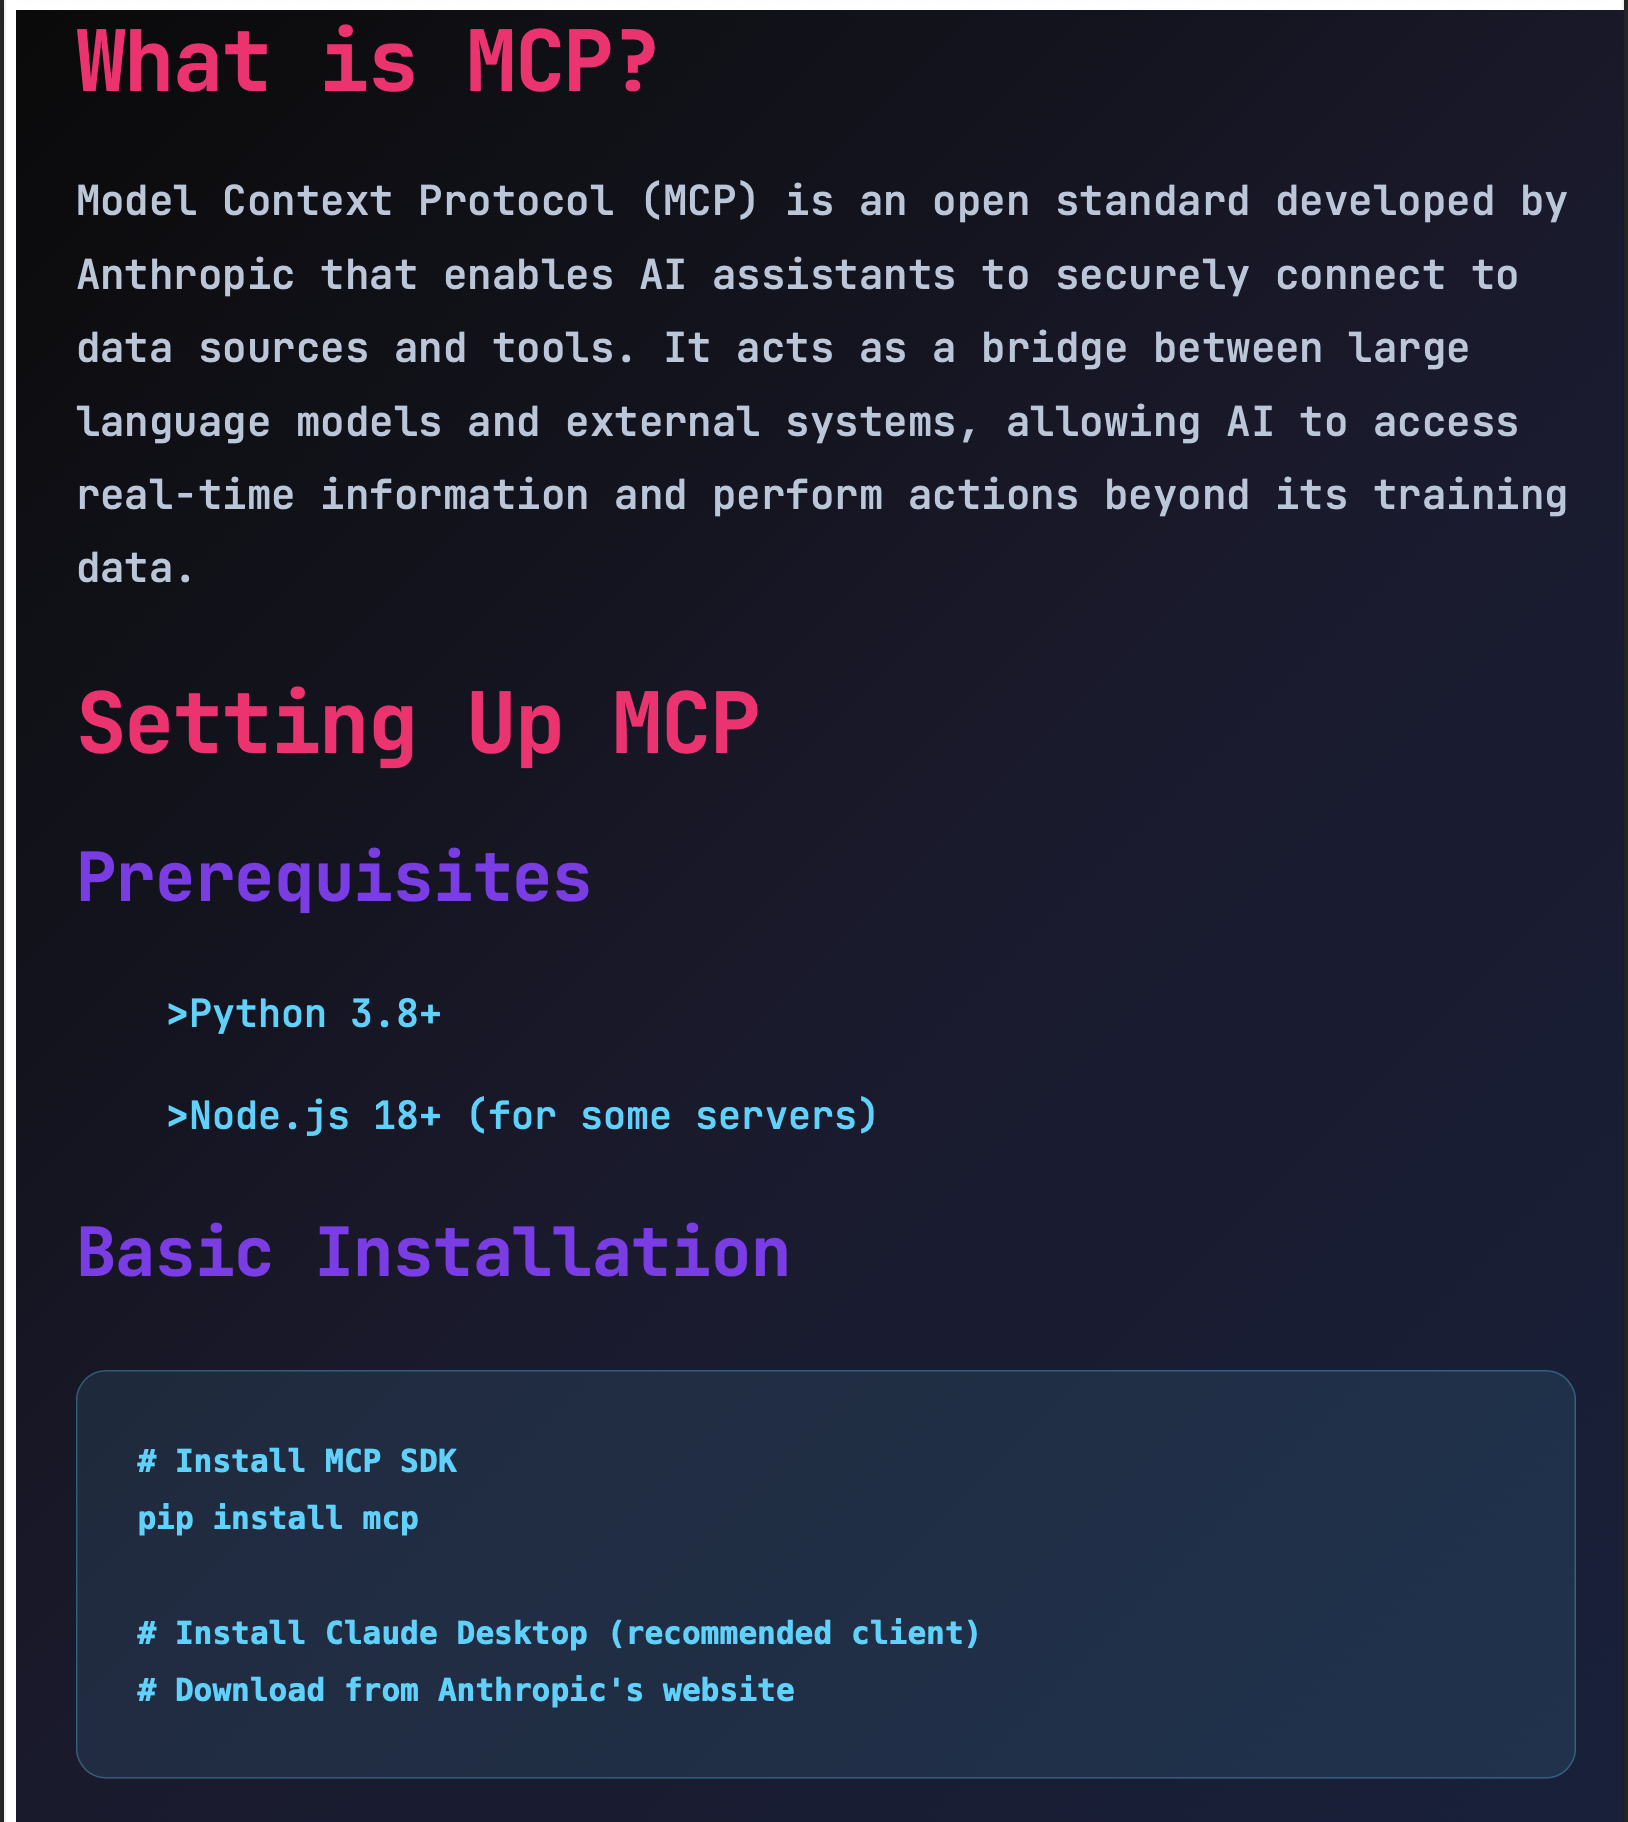
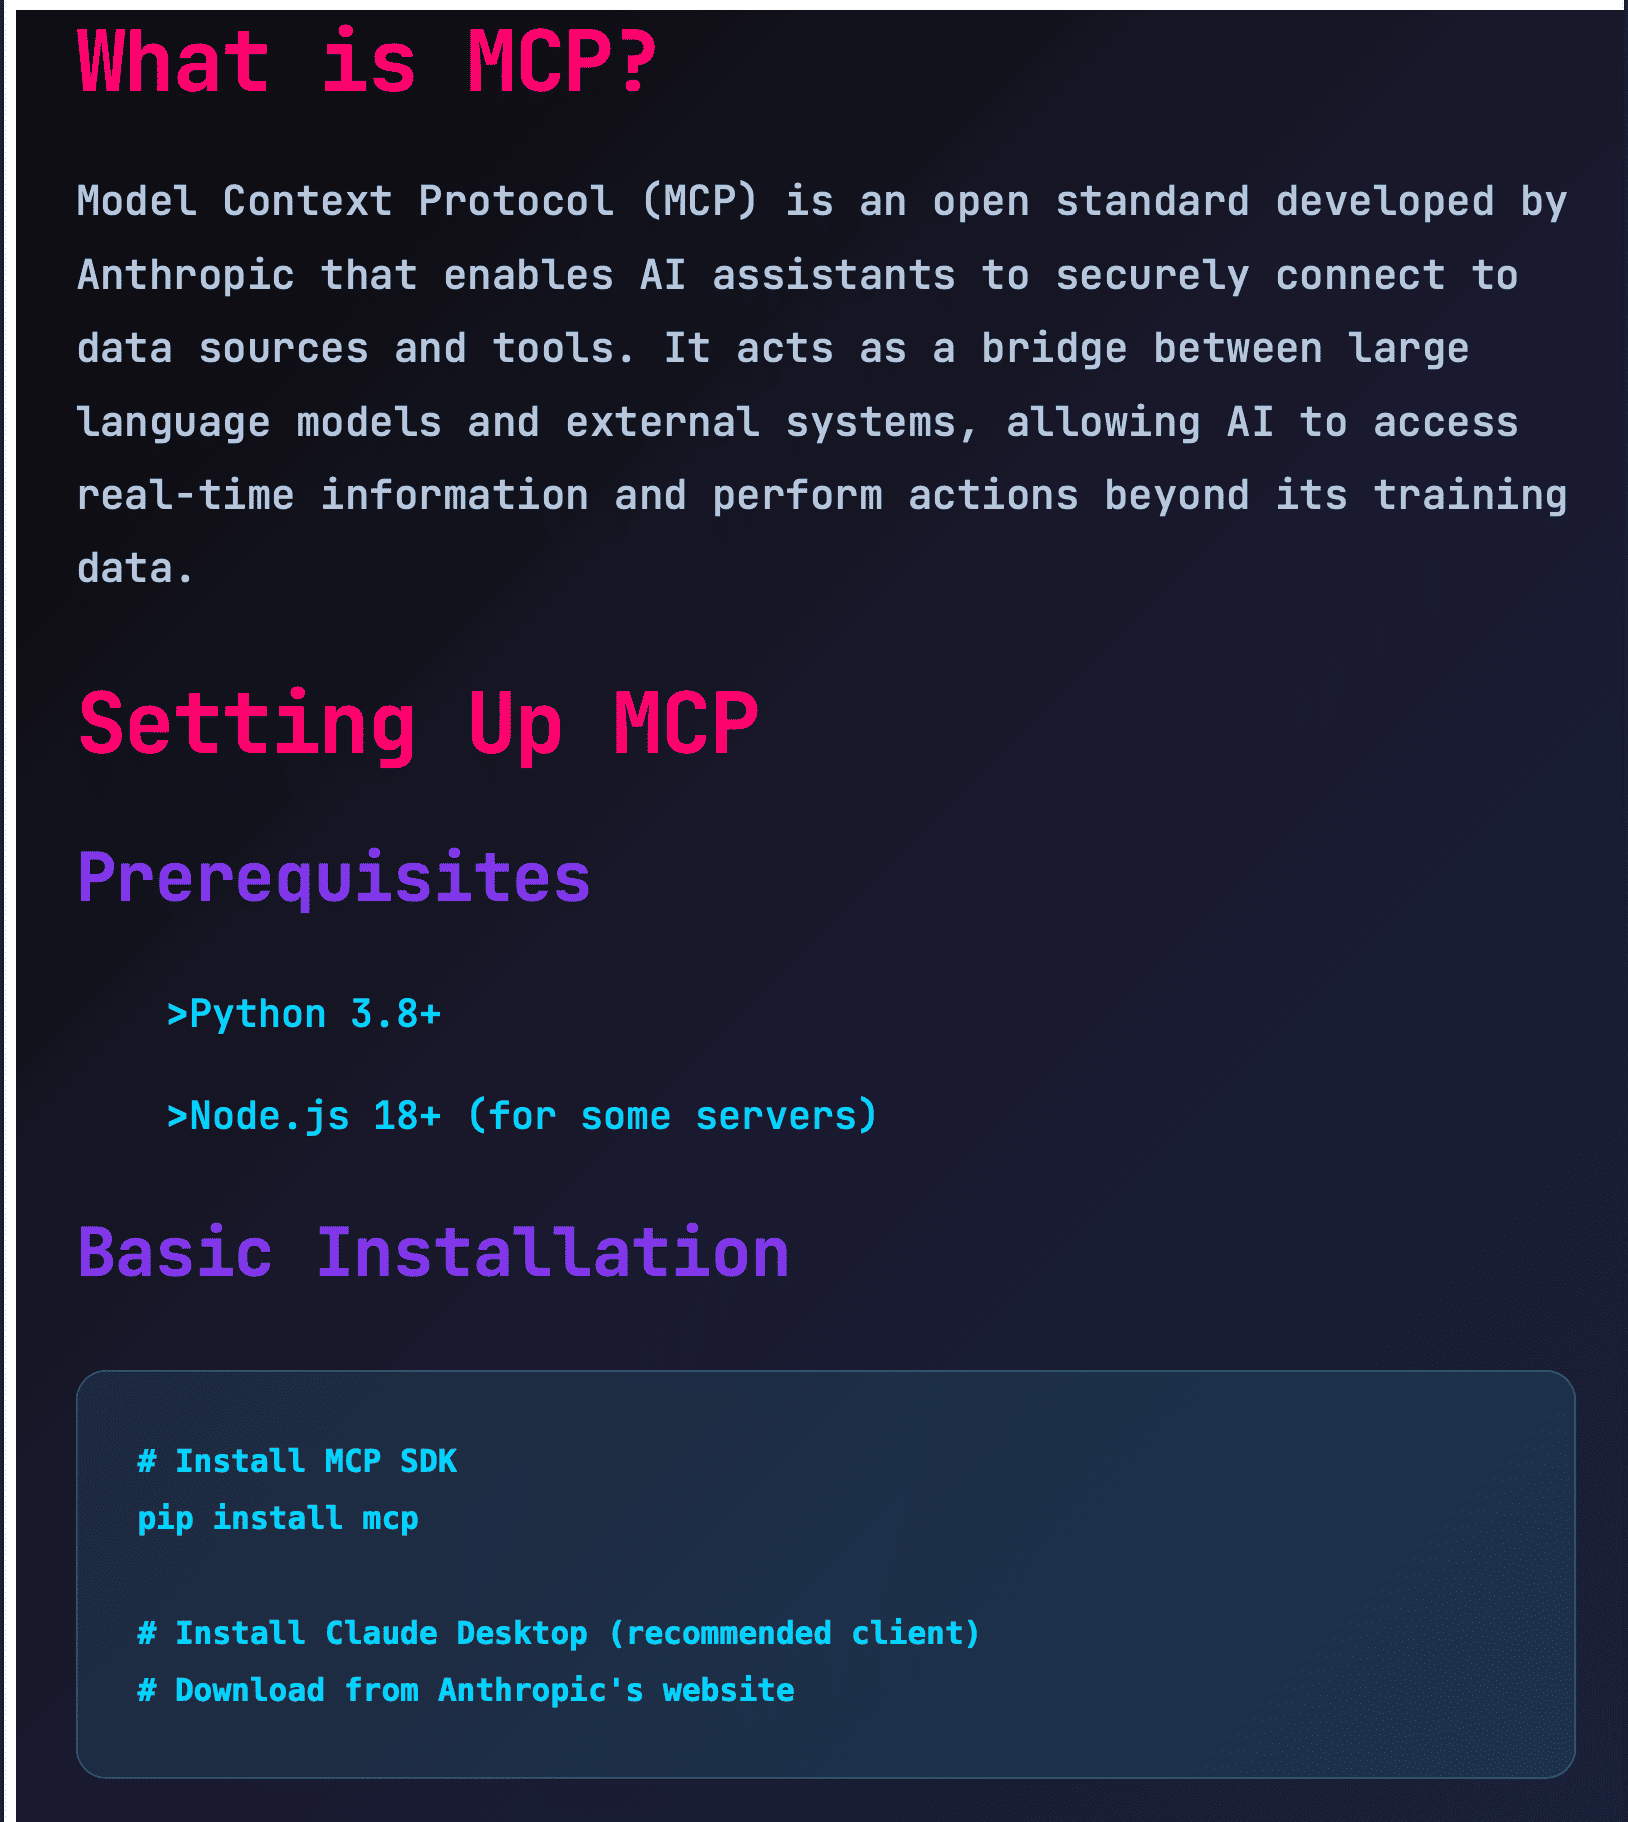
reduced image size; added lazy loading; removed animated bg for app;

diff --git a/templates/geniuspost_homepage.html b/templates/geniuspost_homepage.html
@@ -806,16 +806,16 @@
                         </ul>
                     </div>
                     <div class="showcase-visual">
-                        <img src="{{ url_for('static', filename='images/carousel_template2.png') }}" alt="Carousel Example" style="width: 50%; height: auto; border-radius: 15px;">
-                        <img src="{{ url_for('static', filename='images/carousel_template1.png') }}" alt="Carousel Example" style="width: 50%; height: auto; border-radius: 15px;">
+                        <img src="{{ url_for('static', filename='images/carousel_template2.png') }}" alt="Carousel Example" loading="lazy" style="width: 50%; height: auto; border-radius: 15px;">
+                        <img src="{{ url_for('static', filename='images/carousel_template1.png') }}" alt="Carousel Example" loading="lazy" style="width: 50%; height: auto; border-radius: 15px;">
                     </div>
                 </div>
 
                 <!-- Infographic Showcase -->
                 <div class="showcase-grid" style="margin-top: 80px;">
                     <div class="showcase-visual">
-                        <img src="{{ url_for('static', filename='images/carousel_template5.png') }}" alt="Carousel Example" style="width: 50%; height: 50%; border-radius: 15px;">
-                        <img src="{{ url_for('static', filename='images/carousel_template4.png') }}" alt="Carousel Example" style="width: 50%; height: 60%; border-radius: 15px;">
+                        <img src="{{ url_for('static', filename='images/carousel_template5.png') }}" alt="Carousel Example" loading="lazy" style="width: 50%; height: 50%; border-radius: 15px;">
+                        <img src="{{ url_for('static', filename='images/carousel_template4.png') }}" alt="Carousel Example" loading="lazy" style="width: 50%; height: 60%; border-radius: 15px;">
                     </div>
                     <div class="showcase-content">
                         <h3>Stunning Infographics</h3>
@@ -842,8 +842,8 @@
                     </div>
                     <div class="showcase-visual">
                         <div style="display: grid; grid-template-columns: repeat(2, 1fr); gap: 15px; width: 100%; padding: 20px;">
-                            <img src="{{ url_for('static', filename='images/carousel_template6.png') }}" alt="Carousel 1" style="width: 100%; height: 500px; border-radius: 10px; background: rgba(255,255,255,0.05); border: 1px solid rgba(255,255,255,0.2);">
-                            <img src="{{ url_for('static', filename='images/carousel_template8.png') }}" alt="Carousel 3" style="width: 120%; height: 400px; border-radius: 10px; background: rgba(255,255,255,0.05); border: 1px solid rgba(255,255,255,0.2);">
+                            <img src="{{ url_for('static', filename='images/carousel_template6.png') }}" alt="Carousel 1" loading="lazy" style="width: 100%; height: 500px; border-radius: 10px; background: rgba(255,255,255,0.05); border: 1px solid rgba(255,255,255,0.2);">
+                            <img src="{{ url_for('static', filename='images/carousel_template8.png') }}" alt="Carousel 3" loading="lazy" style="width: 120%; height: 400px; border-radius: 10px; background: rgba(255,255,255,0.05); border: 1px solid rgba(255,255,255,0.2);">
                         </div>
                     </div>
 

diff --git a/static/index.css b/static/index.css
@@ -22,70 +22,13 @@ body {
     width: 100%;
     height: 100%;
     z-index: -2;
-    background: linear-gradient(45deg, #0a0a0a, #1a1a2e, #16213e, #0f3460);
+    background: linear-gradient(45deg, #0a0a0a, #1a1a2e, #5b1878, #0f3460);
     background-size: 400% 400%;
-    animation: gradientShift 15s ease infinite;
-}
-
-.bg-animation::before {
-    content: '';
-    position: absolute;
-    top: 0;
-    left: 0;
-    width: 100%;
-    height: 100%;
-    background: radial-gradient(circle at 20% 50%, rgba(120, 119, 198, 0.3) 0%, transparent 50%),
-            radial-gradient(circle at 80% 20%, rgba(255, 119, 198, 0.3) 0%, transparent 50%),
-            radial-gradient(circle at 40% 80%, rgba(120, 219, 255, 0.3) 0%, transparent 50%);
-    animation: pulseGlow 8s ease-in-out infinite alternate;
-}
-
-@keyframes gradientShift {
-    0% { background-position: 0% 50%; }
-    50% { background-position: 100% 50%; }
-    100% { background-position: 0% 50%; }
 }
 
 @keyframes pulseGlow {
     0% { opacity: 0.5; }
     100% { opacity: 1; }
-}
-
-/* Floating particles */
-.particles {
-    position: fixed;
-    top: 0;
-    left: 0;
-    width: 100%;
-    height: 100%;
-    pointer-events: none;
-    z-index: -1;
-}
-
-.particle {
-    position: absolute;
-    width: 2px;
-    height: 2px;
-    background: rgba(255, 255, 255, 0.5);
-    border-radius: 50%;
-    animation: float 20s linear infinite;
-}
-
-@keyframes float {
-    0% {
-        transform: translateY(100vh) rotate(0deg);
-        opacity: 0;
-    }
-    10% {
-        opacity: 1;
-    }
-    90% {
-        opacity: 1;
-    }
-    100% {
-        transform: translateY(-100vh) rotate(360deg);
-        opacity: 0;
-    }
 }
 
 /* Main Container */
@@ -926,13 +869,6 @@ body {
         animation-iteration-count: 1 !important;
         transition-duration: 0.01ms !important;
     }
-    
-    .bg-animation,
-    .bg-animation::before,
-    .particles,
-    .particle {
-        animation: none !important;
-    }
 }
 
 /* High Contrast Mode Support */
@@ -1655,7 +1591,8 @@ body {
 
 /* Left sidebar */
 .left-sidebar {
-    background: rgba(10, 10, 30, 0.9);
+    /* background: rgba(10, 10, 30, 0.9); */
+    background: linear-gradient(45deg, #0a0a0a, #1a1a2e, #2a0b37, #041325);
     backdrop-filter: blur(20px);
     border-right: 1px solid rgba(255, 255, 255, 0.1);
     display: flex;

diff --git a/templates/index_claude.html b/templates/index_claude.html
@@ -23,7 +23,7 @@
             <!-- Logo area (optional) -->
             <div class="sidebar-header">
                 <h3 class="logo">🚀 GeniusPost AI</h3>
-                <p class="tagline">AI-powered LinkedIn posts</p>
+                <p class="tagline">AI-powered LinkedIn infographics and Carousels</p>
             </div>
             
             <!-- Spacer to push profile to bottom -->
